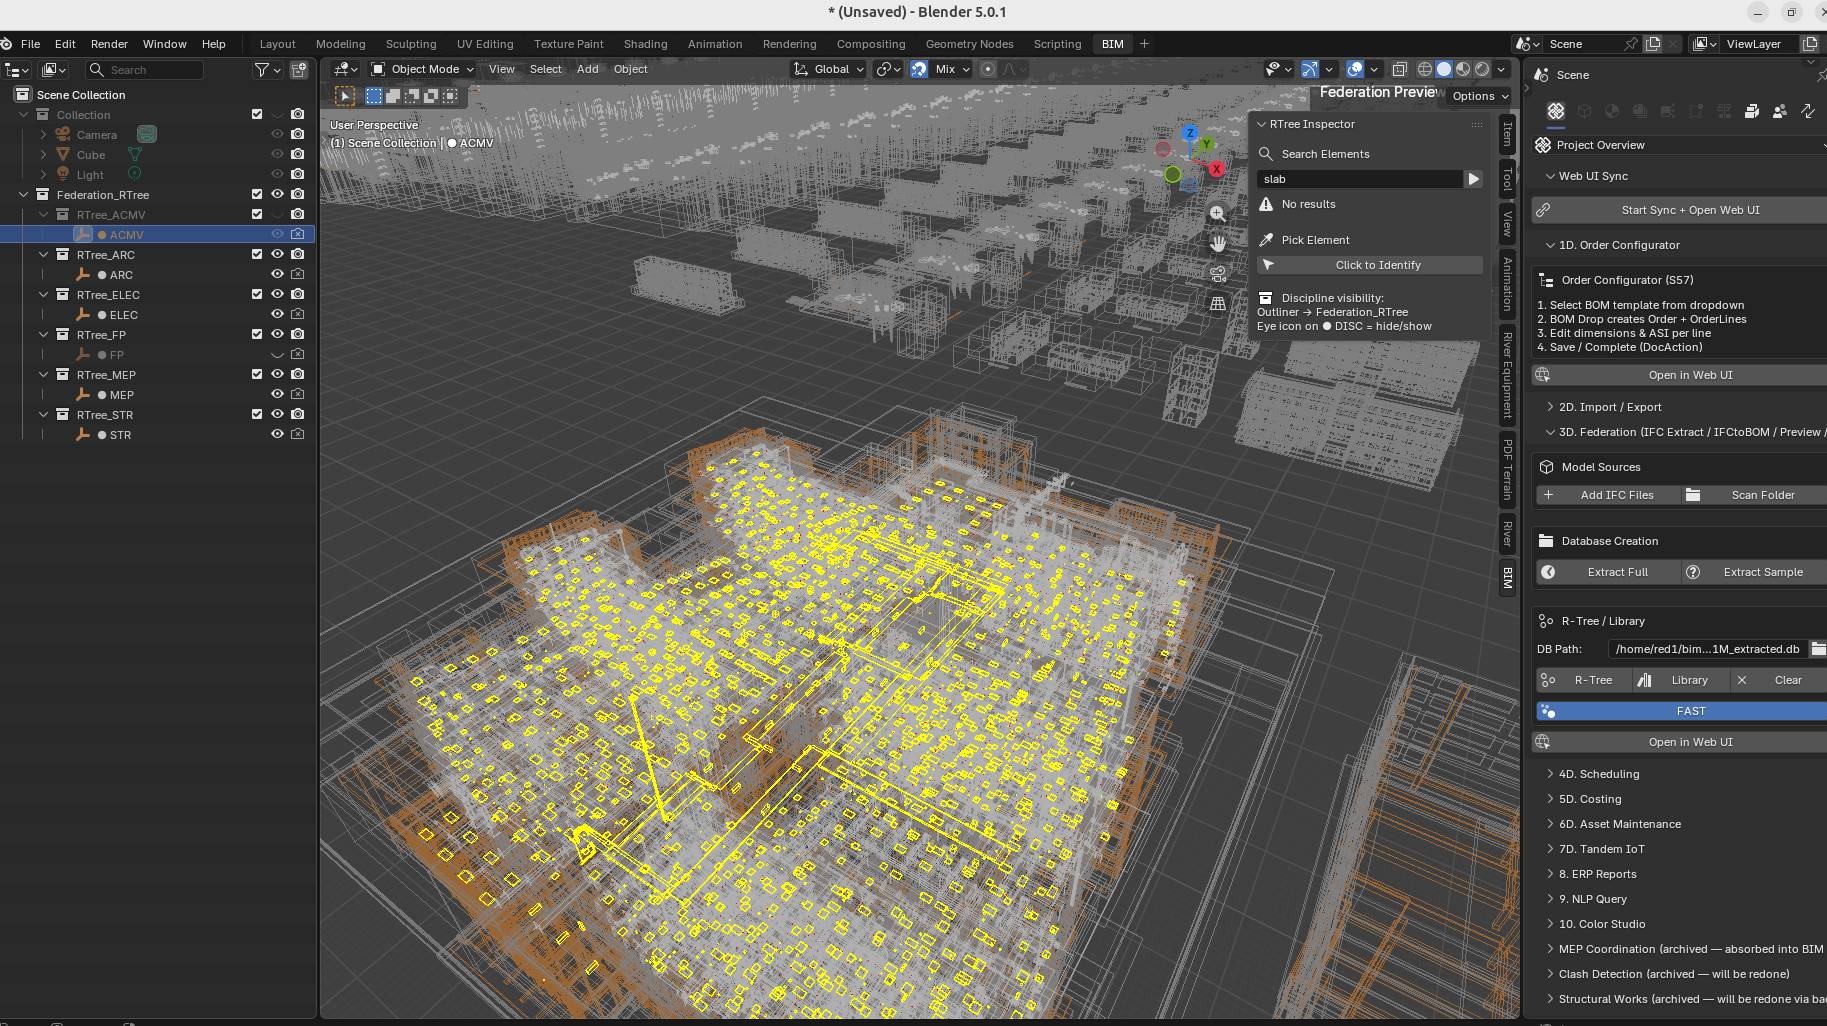
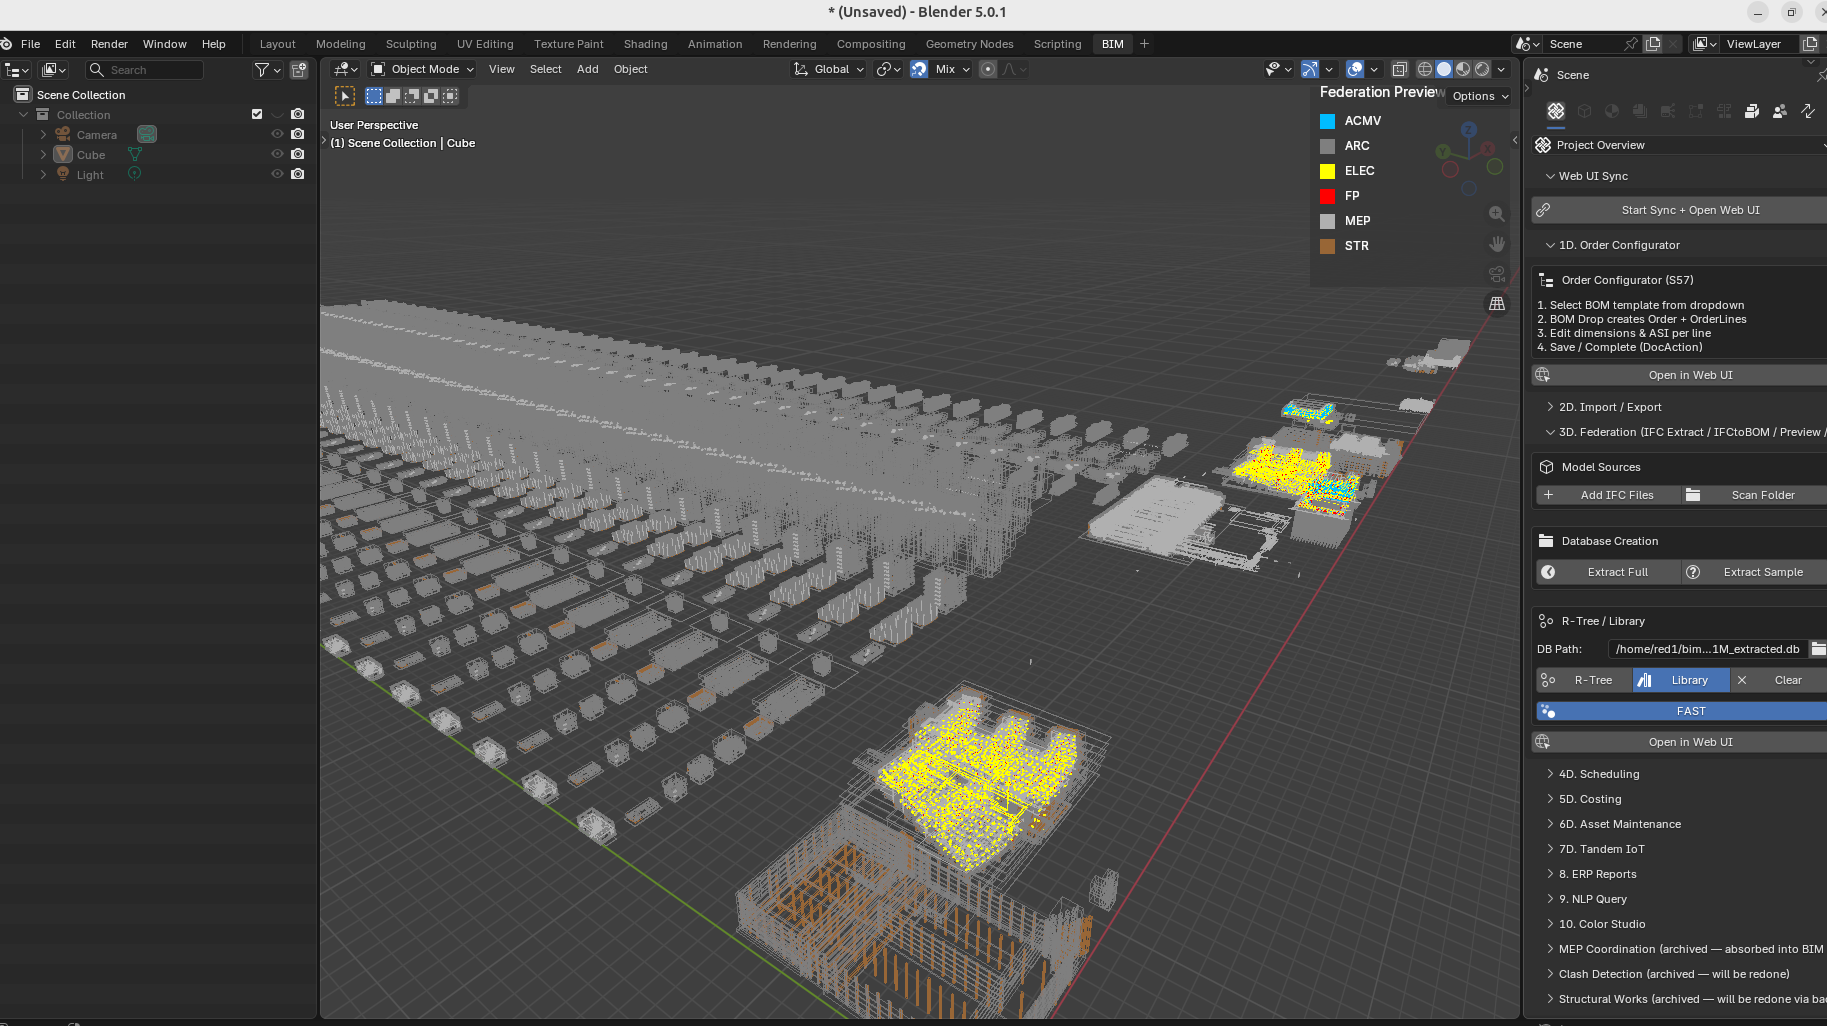
[S179] RTree_City.png: replace with clean city RTree screenshot
Shows discipline legend, coloured bbox wireframes, suburb tiling.
No search highlights — pure RTree load state.

diff --git a/docs/RTree.md b/docs/RTree.md
@@ -146,9 +146,10 @@ Point at something, click, know what it is.
 <figure style="margin: 16px 0; text-align: center;">
   <img src="assets/images/RTree_City.png" alt="1,061,736 elements as GPU wireframes — full 1.73km × 2.48km city, instant orbit" width="100%">
   <figcaption style="font-size: 0.75em; color: #666; margin-top: 4px;">
-    1,061,736 elements rendered as discipline-coloured GPU wireframes across a 1.73km × 2.48km city.
-    ARC (grey), STR (brown), MEP (cyan), ELEC (yellow), FP (red), ACMV (blue).
-    Orbit is instant. Zero mesh objects. Zero Blender objects. Pure GPU batch lines.
+    RTree GPU load — 1,061,736 elements, discipline-coloured wireframe bounding boxes.
+    Legend (top-right): ACMV, ARC, ELEC, FP, MEP, STR.
+    Tiled suburb city in background, hospital complex foreground with MEP/ELEC highlighted.
+    Orbit instant. Zero mesh. Zero Blender objects. Pure GPU batch lines.
   </figcaption>
 </figure>
 
